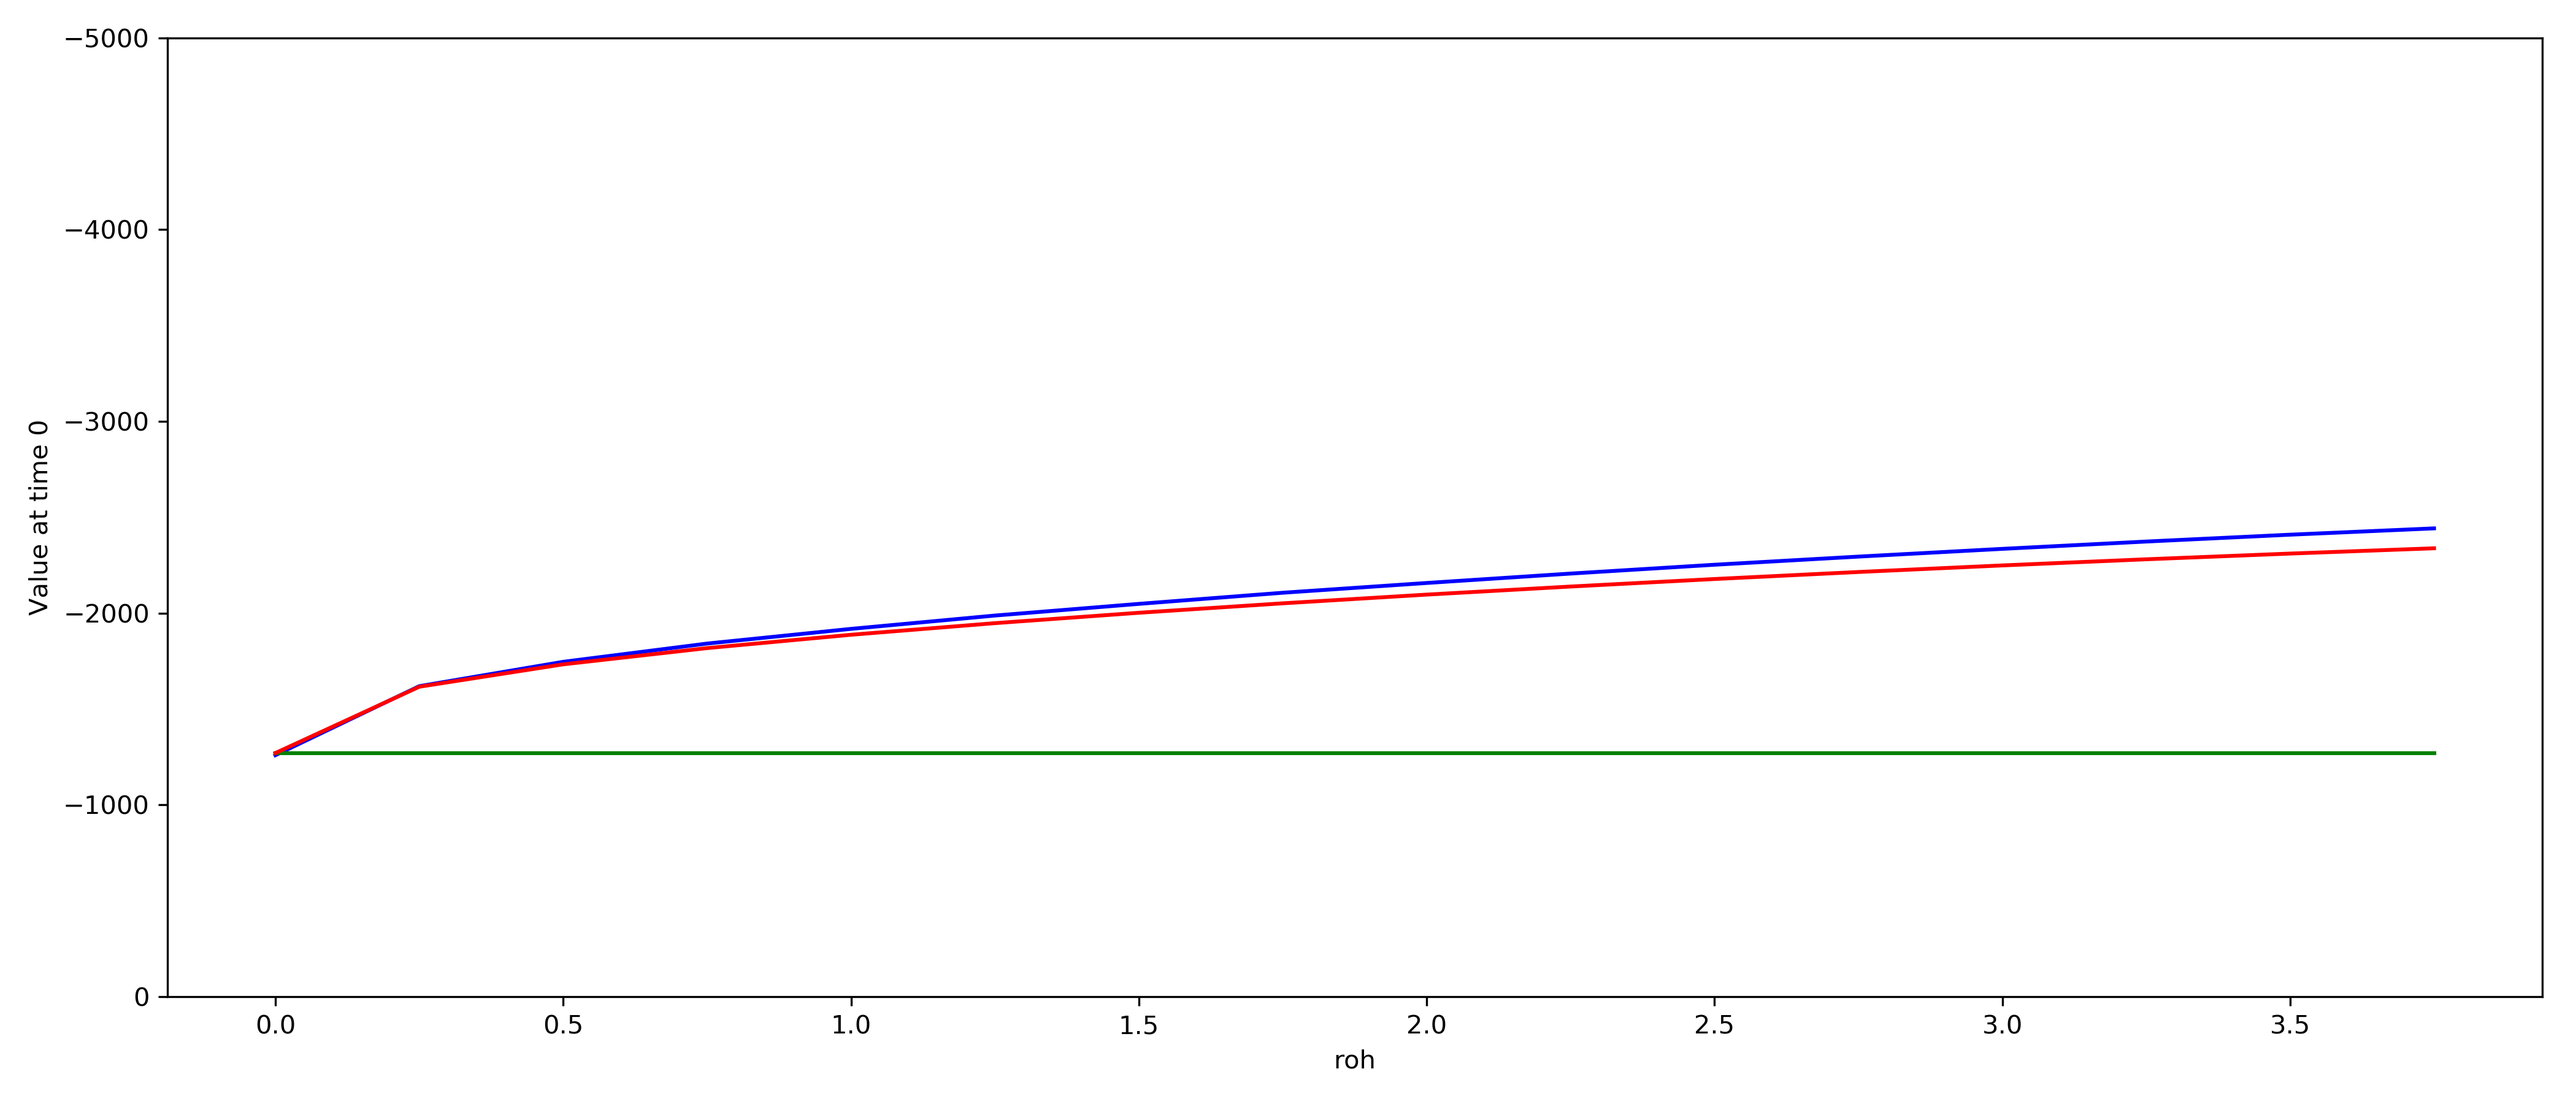
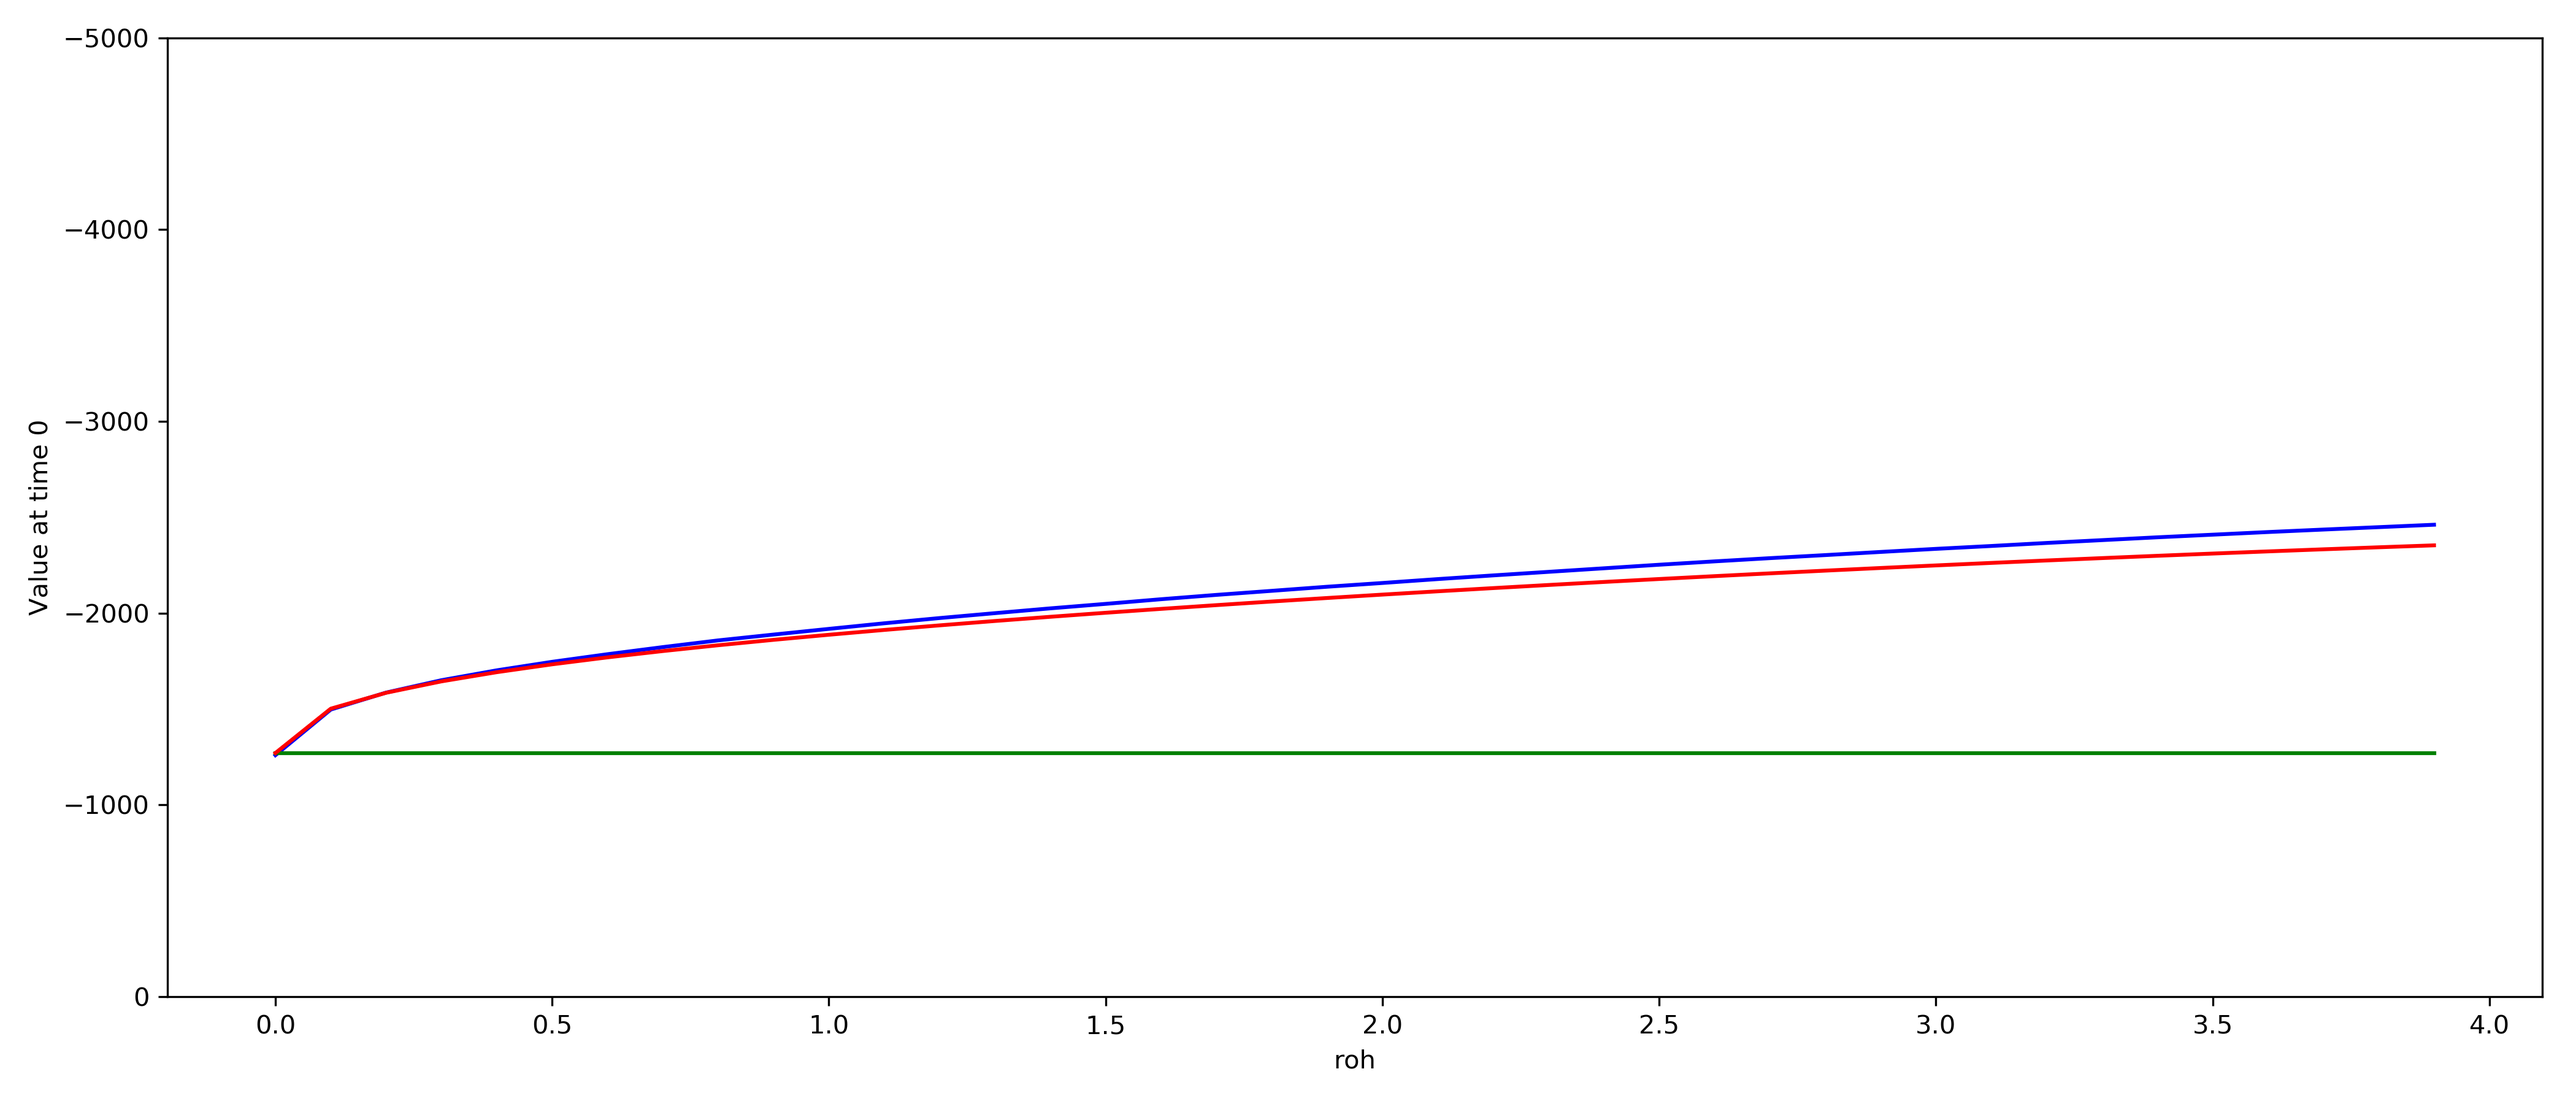
Added some figures

diff --git a/promotion/figure 2/figure_2_3.py b/promotion/figure 2/figure_2_3.py
@@ -7,7 +7,6 @@ from ruspy.estimation.estimation_cost_parameters import lin_cost
 from ruspy.estimation.estimation_cost_parameters import calc_fixp
 from ruspy.simulation.simulation import simulate
 from ruspy.plotting.discounting import discount_utility
-from ruspy.simulation.robust_sim import get_worst_trans
 
 
 with open('init.yml') as y:
@@ -19,26 +18,27 @@ init_dict['simulation']['states'] = 90
 v_exp_known = []
 v_exp_real = []
 v_disc = []
-roh_plot = []
-for roh in np.arange(0, 4, 0.1):
-    roh_plot += [roh]
-    init_dict['simulation']['roh'] = roh
-    worst_trans = get_worst_trans(init_dict['simulation'])
+alpha_plot = []
+for alpha in np.arange(0, 0.8, 0.01):
+    alpha_plot += [alpha]
+    known_trans_probs = np.array(init_dict['simulation']['known probs'])
+    worst_trans = np.zeros(known_trans_probs.shape[0], dtype=float)
+    remain = 1 - known_trans_probs[-1]
+    worst_trans[-1] = known_trans_probs[-1] + alpha
+    for i, p in enumerate(known_trans_probs[0:-1]):
+        worst_trans[i] = p - (p / remain) * alpha
     init_dict['simulation']['real probs'] = worst_trans
-
     df, unobs, utilities, num_states = simulate(init_dict['simulation'])
 
     costs = myopic_costs(num_states, lin_cost, init_dict['simulation']['params'])
 
     num_buses = init_dict['simulation']['buses']
     num_periods = init_dict['simulation']['periods']
-    gridsize = init_dict['plot']['gridsize']
 
     real_trans_probs = np.array(init_dict['simulation']['real probs'])
     real_trans_mat = create_transition_matrix(num_states, real_trans_probs)
     ev_real = calc_fixp(num_states, real_trans_mat, costs, beta)
 
-    known_trans_probs = np.array(init_dict['simulation']['known probs'])
     known_trans_mat = create_transition_matrix(num_states, known_trans_probs)
     ev_known = calc_fixp(num_states, known_trans_mat, costs, beta)
 
@@ -47,7 +47,6 @@ for roh in np.arange(0, 4, 0.1):
         v_calc = v_calc + unobs[i, 0, 0] + ev_known[0]
     v_calc = v_calc / num_buses
     v_exp_known += [v_calc]
-
     v_calc = 0
     for i in range(num_buses):
         v_calc = v_calc + unobs[i, 0, 0] + ev_real[0]
@@ -68,10 +67,10 @@ ax1.set_ylim([0, -5000])
 ax1.set_ylabel(r"Value at time 0")
 ax1.set_xlabel(r"roh")
 
-l1 = ax1.plot(roh_plot, v_disc, color='blue')
-l2 = ax1.plot(roh_plot, v_exp_known, color='green')
-l3 = ax1.plot(roh_plot, v_exp_real, color='red')
+l1 = ax1.plot(alpha_plot, v_disc, color='blue')
+l2 = ax1.plot(alpha_plot, v_exp_known, color='green')
+l3 = ax1.plot(alpha_plot, v_exp_real, color='red')
 
 plt.tight_layout()
 
-plt.savefig('figure_2_.png', dpi=300)
+plt.savefig('figure_2_3.png', dpi=300)
